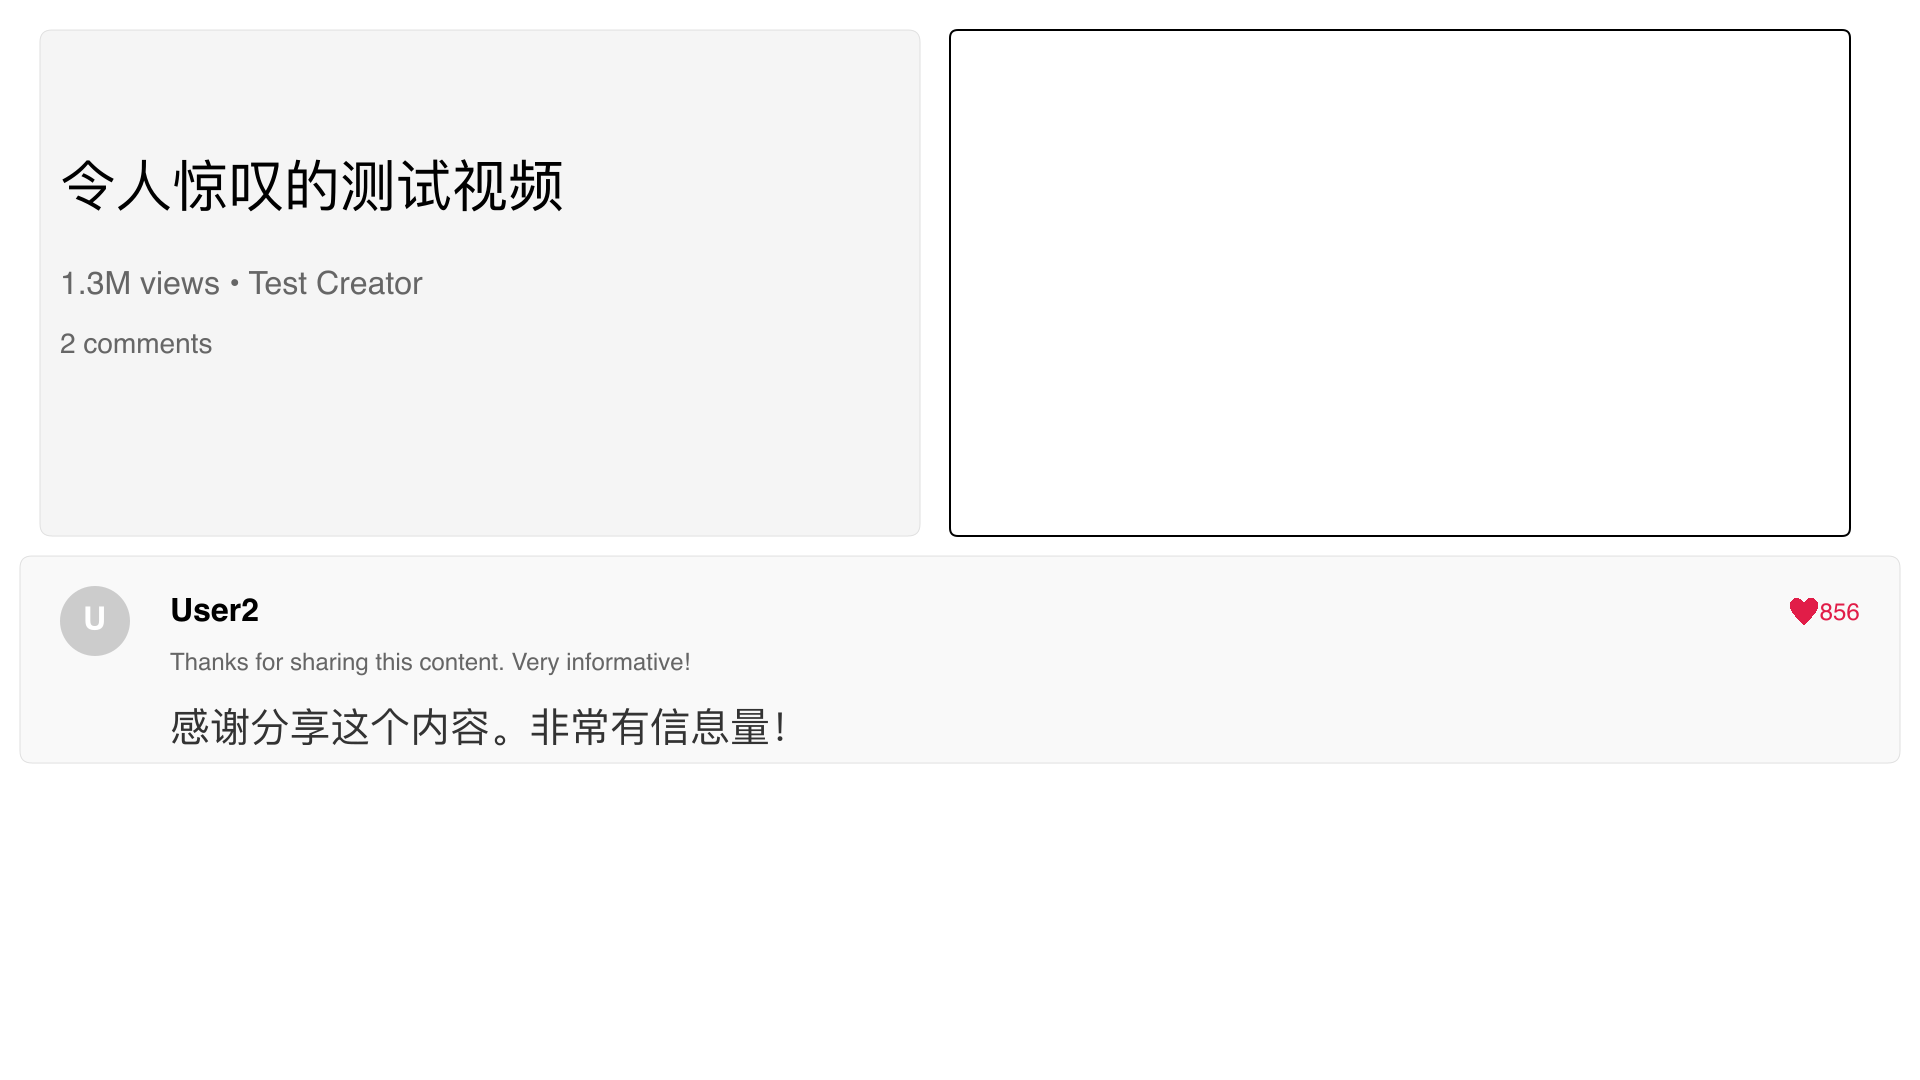
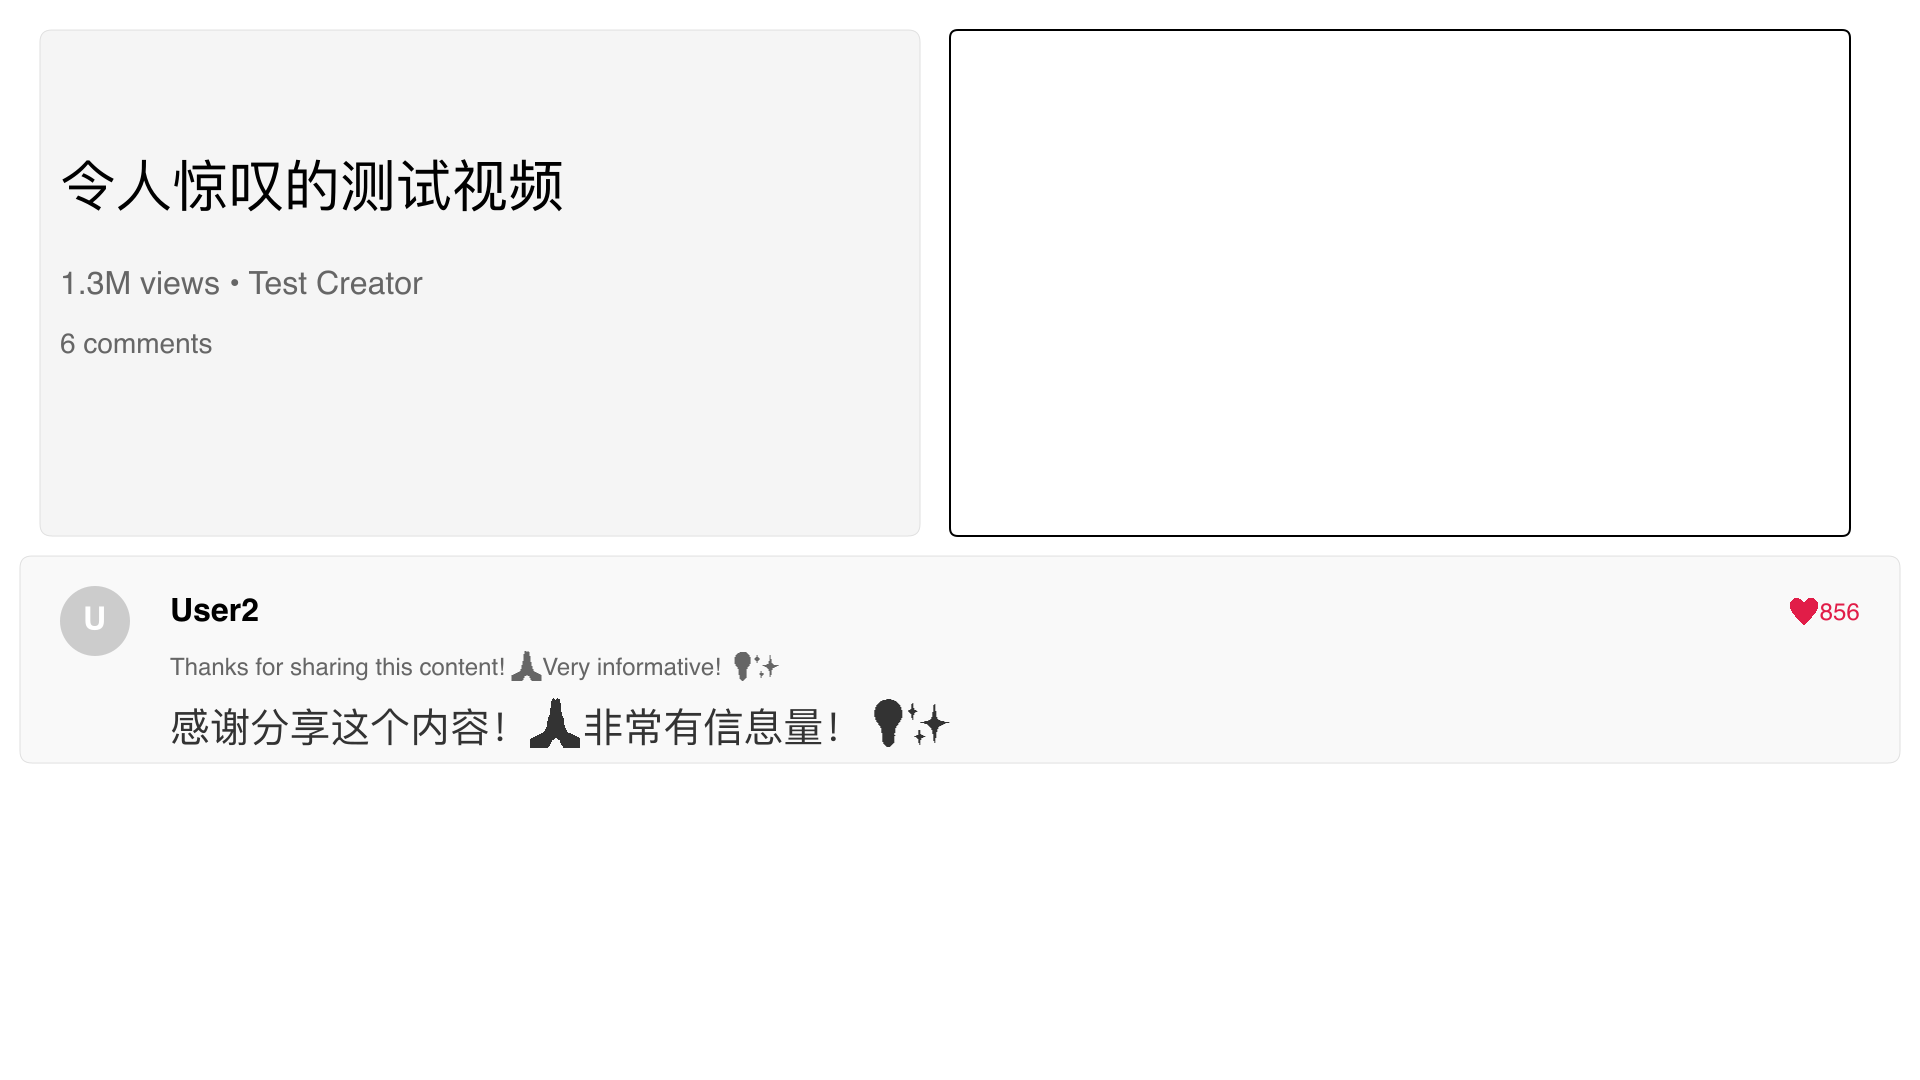
feat: Enhance video rendering tests by adding emoji support in comments and implementing multi-comment rendering functionality. Update existing comments for better expressiveness and add new test images for visual verification.

Changed region(s): [[0.0938, 0.6111, 0.5, 0.7028]]

diff --git a/lib/__tests__/media.test.ts b/lib/__tests__/media.test.ts
@@ -27,8 +27,8 @@ describe('Video Rendering Pipeline', () => {
 			author: 'User1',
 			authorThumbnail:
 				'https://images.unsplash.com/photo-1472099645785-5658abf4ff4e?w=150&h=150&fit=crop&crop=face',
-			content: 'This is an amazing video! Really enjoyed watching it.',
-			translatedContent: '这是一个很棒的视频！真的很喜欢看。',
+			content: 'This is an amazing video! 🎬 Really enjoyed watching it! 😍🔥',
+			translatedContent: '这是一个很棒的视频！🎬 真的很喜欢看！😍🔥',
 			likes: 1250,
 			replyCount: 15,
 			source: 'youtube' as const,
@@ -38,11 +38,55 @@ describe('Video Rendering Pipeline', () => {
 			author: 'User2',
 			authorThumbnail:
 				'https://images.unsplash.com/photo-1507003211169-0a1dd7228f2d?w=150&h=150&fit=crop&crop=face',
-			content: 'Thanks for sharing this content. Very informative!',
-			translatedContent: '感谢分享这个内容。非常有信息量！',
+			content: 'Thanks for sharing this content! 🙏 Very informative! 💡✨',
+			translatedContent: '感谢分享这个内容！🙏 非常有信息量！💡✨',
 			likes: 856,
 			replyCount: 8,
 			source: 'tiktok' as const,
+		},
+		{
+			id: 'comment3',
+			author: 'User3',
+			authorThumbnail:
+				'https://images.unsplash.com/photo-1494790108755-2616b612b786?w=150&h=150&fit=crop&crop=face',
+			content: 'Wow! This is incredible! 🚀🔥💯 Can\'t wait for more! 👏',
+			translatedContent: '哇！这太不可思议了！🚀🔥💯 等不及看更多！👏',
+			likes: 2340,
+			replyCount: 25,
+			source: 'youtube' as const,
+		},
+		{
+			id: 'comment4',
+			author: 'User4',
+			authorThumbnail:
+				'https://images.unsplash.com/photo-1438761681033-6461ffad8d80?w=150&h=150&fit=crop&crop=face',
+			content: 'Amazing work! 🌟 Love the creativity! 🎨💖 Keep it up! 🚀',
+			translatedContent: '太棒了！🌟 喜欢这种创意！🎨💖 继续加油！🚀',
+			likes: 1890,
+			replyCount: 12,
+			source: 'tiktok' as const,
+		},
+		{
+			id: 'comment5',
+			author: 'EmojiLover',
+			authorThumbnail:
+				'https://images.unsplash.com/photo-1500648767791-00dcc994a43e?w=150&h=150&fit=crop&crop=face',
+			content: 'This video is absolutely fantastic! 🎉🎊🎈 The best content I\'ve seen! 🏆🥇💎',
+			translatedContent: '这个视频绝对太棒了！🎉🎊🎈 我见过的最好的内容！🏆🥇💎',
+			likes: 5670,
+			replyCount: 89,
+			source: 'youtube' as const,
+		},
+		{
+			id: 'comment6',
+			author: 'TechGuru',
+			authorThumbnail:
+				'https://images.unsplash.com/photo-1507003211169-0a1dd7228f2d?w=150&h=150&fit=crop&crop=face',
+			content: 'Incredible tutorial! 💻⚡ Learned so much! 📚🧠 Thank you! 🙏🙌',
+			translatedContent: '令人难以置信的教程！💻⚡ 学到了很多！📚🧠 谢谢！🙏🙌',
+			likes: 3420,
+			replyCount: 45,
+			source: 'youtube' as const,
 		},
 	]
 
@@ -110,7 +154,7 @@ describe('Video Rendering Pipeline', () => {
 			)
 			console.log('✅ Saved header snapshot to test_renderHeader.png')
 
-			// 2. Test renderCommentCard
+			// 2. Test renderCommentCard with emoji
 			const commentCanvas = createCanvas(1920, 1080)
 			const commentCtx = commentCanvas.getContext('2d')
 			renderBackground(commentCtx, 1920, 1080)
@@ -130,7 +174,34 @@ describe('Video Rendering Pipeline', () => {
 			)
 			console.log('✅ Saved comment card snapshot to test_renderCommentCard.png')
 
-			// 3. Test combined frame
+			// 3. Test multiple comment cards with emoji
+			const multiCommentCanvas = createCanvas(1920, 1080)
+			const multiCommentCtx = multiCommentCanvas.getContext('2d')
+			renderBackground(multiCommentCtx, 1920, 1080)
+			renderHeader(multiCommentCtx, mockVideoInfo, mockComments.length)
+			renderVideoArea(multiCommentCtx, 950, 30, 900, 506)
+			
+			// Render multiple comment cards
+			mockComments.slice(0, 3).forEach((comment, index) => {
+				renderCommentCard(
+					multiCommentCtx,
+					comment,
+					index,
+					mockComments.length,
+					null,
+					1920,
+					1080,
+				)
+			})
+			
+			const multiCommentBuffer = multiCommentCanvas.toBuffer('image/png')
+			await fs.writeFile(
+				path.join(__dirname, 'test_multi_comments.png'),
+				multiCommentBuffer,
+			)
+			console.log('✅ Saved multi-comment snapshot to test_multi_comments.png')
+
+			// 4. Test combined frame
 			const combinedCanvas = createCanvas(1920, 1080)
 			const combinedCtx = combinedCanvas.getContext('2d')
 			renderBackground(combinedCtx, 1920, 1080)
